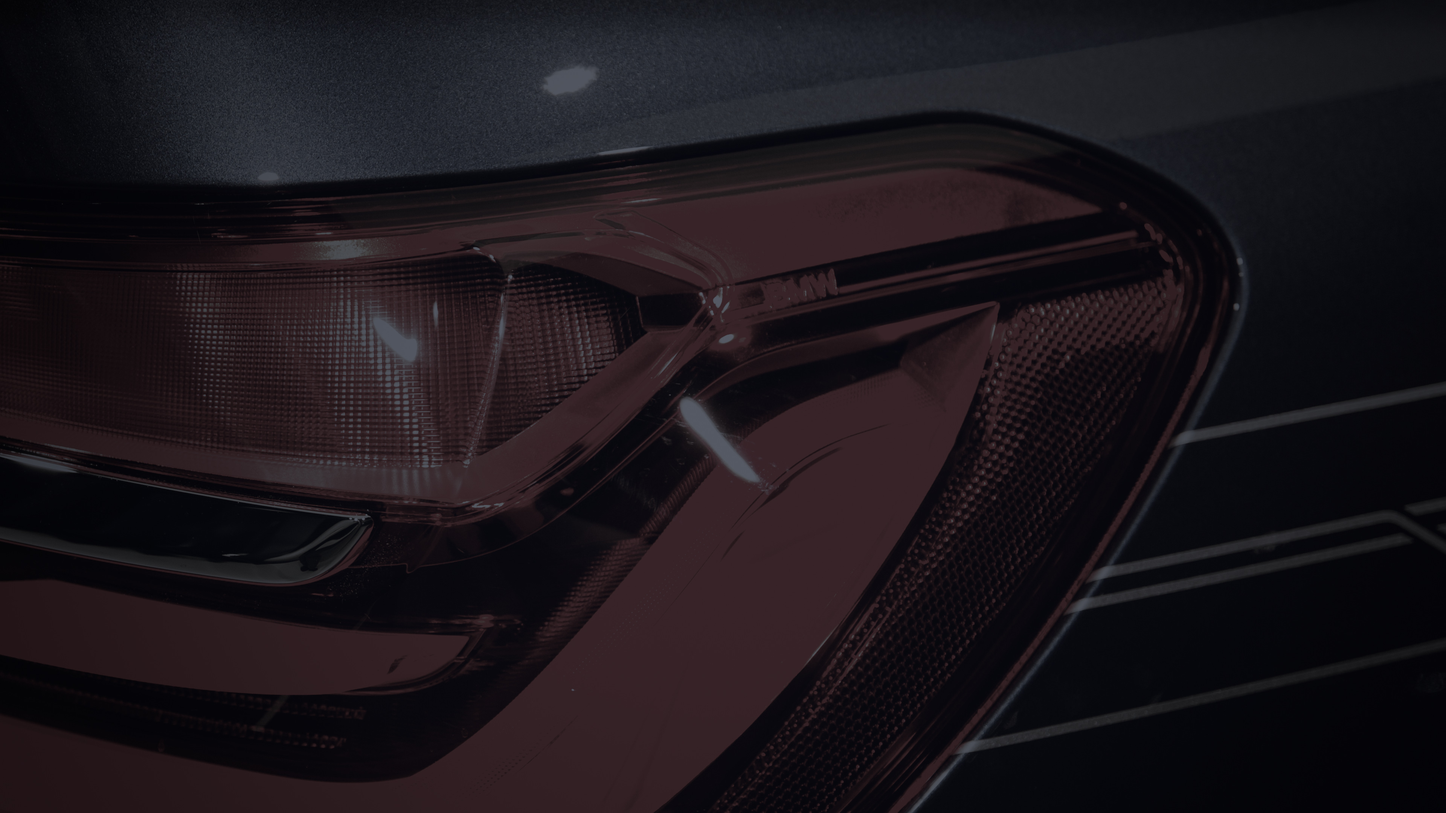
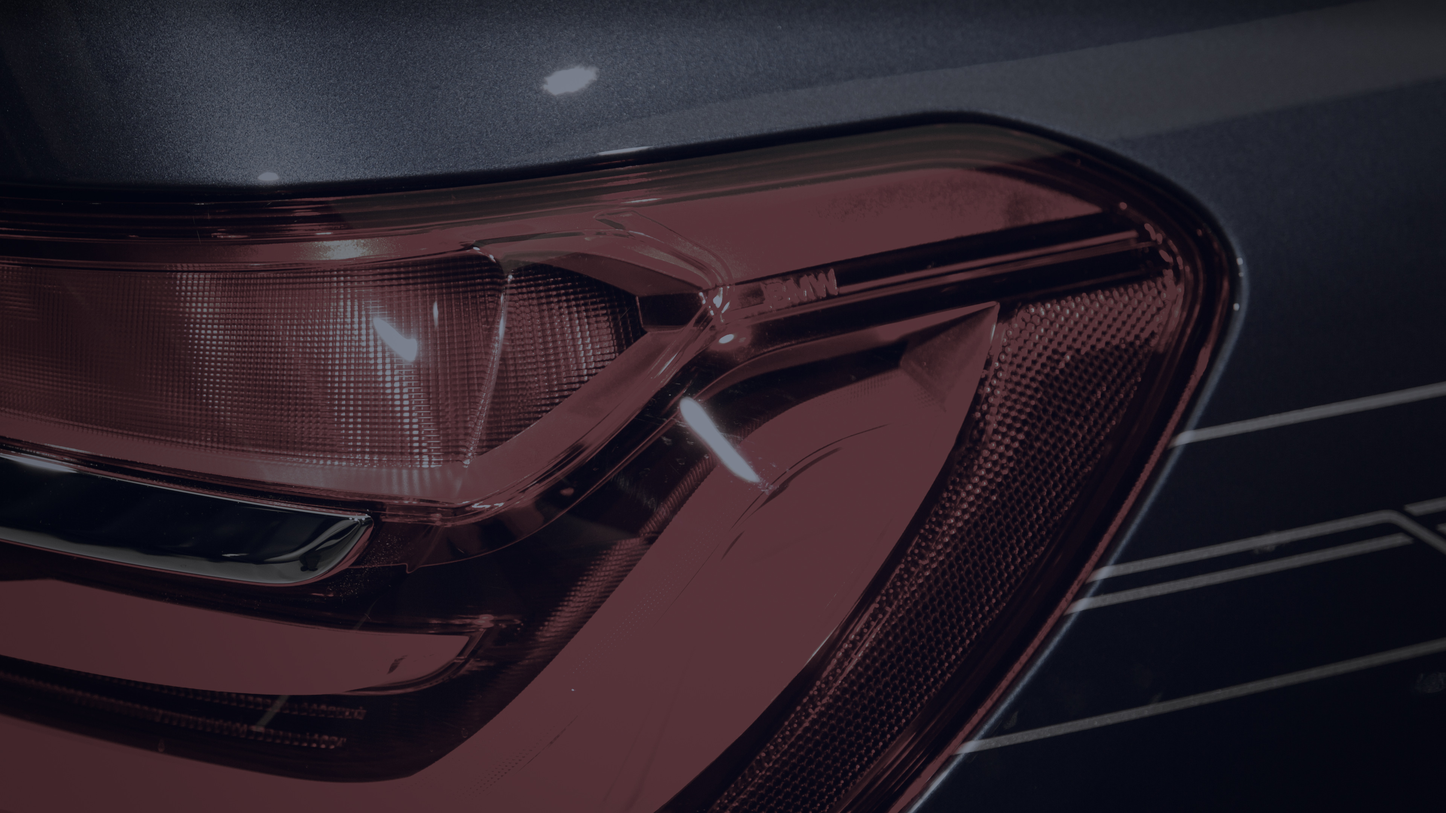
Stop grading the photographs into the dark
The hero was graded down until the car was barely there, which defeats
the point of putting a car behind the desktop. Exposure, vignette,
contrast, shadow lift and the Waybar band are now per-recipe knobs
instead of constants, because the right answer differs per image: a busy
show-floor frame needs pushing down before it stops competing with the
UI, while an image carrying the theme's identity needs the opposite.

- Hero: mean 0.100 -> 0.181, vignette 0.62 -> 0.34, contrast 0.90 -> 1.06,
  saturation 0.30 -> 0.38, shadow lift 0.18 -> 0.11. The silver bodywork,
  the C2 2.7 badge, the quad headlights, the ALPINA spoiler and the
  motion streaks all read now.
- Saturation is up but held at 0.38: past roughly 0.45 the autumn hedge
  comes back green and starts arguing with the palette.
- The two Commons photographs are lifted the same way so the set stays
  coherent when cycling wallpapers.
- The six abstracts are unchanged. They are textures whose job is to sit
  behind the UI, and nothing in them can be lost by being quiet.

Legibility is unaffected: Waybar is near-opaque graphite and Hyprland's
blur darkens whatever sits behind glass.

Claude-Session: https://claude.ai/code/session_01CiKLSgpwpqdQ4mcEPDWheW

diff --git a/bin/grade-wallpaper.py b/bin/grade-wallpaper.py
@@ -53,8 +53,17 @@ RECIPES = {
         "power": {"amount": 0.055, "inner": 0.14, "outer": 0.80},
         "sharpen": 0.6,
         "blur": 0.0,
-        "target": 0.020,
-        "saturation": 0.30,
+        # Deliberately brighter and punchier than the rest of the set. This
+        # image is the theme's identity, not a texture behind it: graded down
+        # to background level the car simply vanished, and a wallpaper nobody
+        # can see is not carrying anything. The UI still wins because Waybar
+        # is near-opaque and Hyprland's blur darkens what sits behind glass.
+        "target": 0.060,
+        "saturation": 0.38,
+        "vignette": 0.34,
+        "contrast": 1.06,
+        "shadow_lift": 0.11,
+        "ui_band": 0.28,
         # The number plate, and the bright verge behind the front wing.
         "knockdown": [(0.566, 0.606, 0.738, 0.724, 0.72, 11.0)],
         "note": "BMW E30 ALPINA C2 2.7",
@@ -67,8 +76,10 @@ RECIPES = {
         # it is a sliver along one edge of a dark metallic panel.
         "crop": (0.34, 0.03, 1.00, 0.80),
         "blur": 0.0,
-        "target": 0.016,
-        "saturation": 0.26,
+        "target": 0.034,
+        "saturation": 0.32,
+        "vignette": 0.46,
+        "contrast": 0.98,
         "note": "ALPINA B7 tail light, IAA 2017",
     },
     "alpina-gims-2018-le-grand-saconnex-1x7a1256": {
@@ -76,9 +87,11 @@ RECIPES = {
         # Crops out the orange car on the left and most of the show-stand
         # crowd along the top; what is left is the car and the dark stand.
         "crop": (0.14, 0.06, 0.845, 0.955),
-        "blur": 2.6,
-        "target": 0.013,
-        "saturation": 0.28,
+        "blur": 2.0,
+        "target": 0.028,
+        "saturation": 0.34,
+        "vignette": 0.46,
+        "contrast": 0.98,
         "note": "ALPINA B5 Bi-Turbo Touring, Geneva 2018",
     },
 }
@@ -222,7 +235,20 @@ def grade(
     focus: tuple[float, float] = (0.5, 0.5),
     sharpen: float = 0.0,
     knockdown: list[tuple[float, float, float, float, float, float]] | None = None,
+    vignette: float = 0.62,
+    contrast: float = 0.90,
+    shadow_lift: float = 0.18,
+    ui_band: float = 0.45,
 ) -> Image.Image:
+    """
+    Grade a photograph into a background.
+
+    The four strength knobs are exposed rather than baked in because the right
+    answer differs per image. A busy show-floor shot needs to be pushed right
+    down before it stops competing with the UI; a hero shot that is carrying
+    the theme's identity needs the opposite, or the subject disappears and
+    there is no reason for the photograph to be there at all.
+    """
     if blur > 0:
         im = im.filter(ImageFilter.GaussianBlur(blur))
     if knockdown:
@@ -249,13 +275,13 @@ def grade(
     # 3. Lift the shadows toward deep ALPINA blue, weighted to the darkest
     #    parts, so black areas become blue-black rather than dead black.
     shadow = (1.0 - np.clip(luma / 0.18, 0.0, 1.0)) ** 2
-    img += shadow * to_linear(np.array(p.rgb(p.ALPINA)) / 255.0)[None, None, :] * 0.18
+    img += shadow * to_linear(np.array(p.rgb(p.ALPINA)) / 255.0)[None, None, :] * shadow_lift
 
     # 4. Pull contrast back around the midpoint. A background should not have
     #    the punch of a photograph — but overdoing this together with the
     #    shadow lift turns the frame milky, which looks cheap rather than calm.
     pivot = img.mean()
-    img = pivot + (img - pivot) * 0.90
+    img = pivot + (img - pivot) * contrast
 
     # 5. Set the exposure by measurement, not by eye.
     mean = img.mean()
@@ -279,11 +305,11 @@ def grade(
     # 6. Vignette about the subject rather than the frame, so the fall-off
     #    pushes everything that is not the car into the dark.
     d = radial_distance((h, w), focus) / 1.05
-    img *= (1.0 - 0.62 * smoothstep(0.22, 1.0, d))[..., None]
+    img *= (1.0 - vignette * smoothstep(0.22, 1.0, d))[..., None]
 
     # 7. Settle the strip Waybar lives on.
     yy = np.linspace(0, 1, h)[:, None]
-    img *= (1.0 - 0.45 * (1.0 - smoothstep(0.0, 0.06, yy)))[..., None]
+    img *= (1.0 - ui_band * (1.0 - smoothstep(0.0, 0.06, yy)))[..., None]
 
     return encode(img)
 
@@ -347,6 +373,10 @@ def main() -> None:
             im, r["blur"], r["target"], r["saturation"],
             focus=focus, sharpen=r.get("sharpen", 0.0),
             knockdown=r.get("knockdown"),
+            vignette=r.get("vignette", 0.62),
+            contrast=r.get("contrast", 0.90),
+            shadow_lift=r.get("shadow_lift", 0.18),
+            ui_band=r.get("ui_band", 0.45),
         ).save(dest, quality=93, subsampling=0, optimize=True, progressive=True)
         report(dest)
 

diff --git a/README.md b/README.md
@@ -218,10 +218,19 @@ after grading it was the first thing the eye landed on.
 It is rendered at 1440p rather than 4K. The source is 1240px wide, and
 inventing three times that many pixels only produces mush.
 
-Two constraints are enforced by measurement rather than by eye: mean luminance
-stays low, and nothing bright is allowed to sit where the UI lives — the top
-edge where Waybar runs, or the centre where Walker opens. Both scripts print
-those numbers every time they run.
+Exposure is set by measurement rather than by eye, and both scripts print what
+they produced — mean luminance, plus the brightness of the strip Waybar runs
+along and the area Walker opens into — every time they run.
+
+The set is deliberately not uniform. The six abstracts are textures whose whole
+job is to stay behind the UI, so they sit low. The photographs are the opposite:
+they exist to be *seen*, and the hero most of all. An earlier pass graded them
+all down to the same quiet level, and the result was a car nobody could make
+out — which defeats the point of putting a car there. The grader's strength
+knobs (`vignette`, `contrast`, `shadow_lift`, `ui_band`, `target`) are exposed
+per-recipe for exactly this reason. Waybar is near-opaque and Hyprland's blur
+darkens whatever sits behind glass, so a brighter wallpaper costs nothing in
+legibility.
 
 `02` through `07` are generated procedurally from the theme palette
 (`bin/make-backgrounds.py`) and are original work. `08` and `09` are CC BY-SA 4.0
